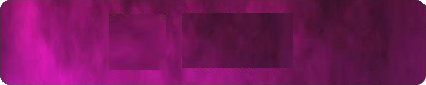
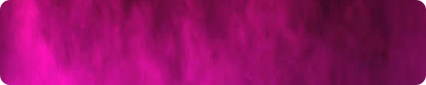
Добавлены картинки из макета. Добавлено меню. Добавлен блок "Контакты". Блок голосования генерится и переключается через JS.

diff --git a/static/scss/darkfair.scss b/static/scss/darkfair.scss
@@ -5,7 +5,7 @@
     src: url(/fonts/Cabana-Regular.otf);
 }
 
-body, html {
+body, html, .main-cnt {
     height: 100%;
 }
 
@@ -13,6 +13,10 @@ html {
     font-family: cabana;
     font-size: 30px;
     color: #F1E6D2;
+}
+
+.main-cnt {
+    overflow-y: scroll;
 }
 
 h1 {
@@ -26,6 +30,8 @@ h1 {
     padding: 5em 0;
     background: black;
     overflow: auto;
+    background-image: url("/images/darkfair/black_background.png");
+    background-size: contain;
 }
 
 .main-btn {
@@ -36,17 +42,72 @@ h1 {
     margin-top: 0.388888em;
     padding: 0.15em;
     border-radius: 8px;
-    background: #591441;
+    background-image: url("/images/darkfair/mainbutton.png");
     text-align: center;
     cursor: pointer;
 }
 
 .text-block {
     text-align: center;
+    width: 31.25%;
+    min-width: 600px;
+    margin: 0 auto;
+    line-height: 1.5em;
+}
+
+.menu-cnt {
+    position: fixed;
+    top: 60px;
+    left: 60px;
+    overflow: visible;
+    padding: 5px;
+
+    * {
+        cursor: pointer;
+    }
+
+    b {
+        font-size: 1.5em;
+    }
+
+    img {
+        vertical-align: middle;
+        margin: 14px 36px 14px 0;
+        float: left;
+
+        &.close {
+            display: none;
+        }
+    }
+
+    &.opened {
+        img.open {
+            display: none;
+        }
+        img.close {
+            display: initial;
+        }
+
+        .menu-text-cnt .menu-list {
+            display: initial;
+        }
+    }
+
+    .menu-text-cnt {
+        float: left;
+
+        .menu-list {
+            display: none;
+            color: white;
+
+            li {
+                padding: 10px 0;
+            }
+        }
+    }
 }
 
 .description-block {
-    background: black;
     text-align: center;
 
     .text-block {
@@ -81,15 +142,21 @@ html.mobile {
     overflow: hidden;
     text-align: center;
     .card {
-        font-size: 1.5em;
+        font-size: 2em;
         font-weight: bold;
         display: inline-block;
-        margin-right: 0.822222em;
-        border: 3px solid #FFFCEA;
-        border-radius: 5px;
-        padding: 0.222222em;
-        cursor: pointer;
+        height: 88px;
+        width: 49px;
+        margin-right: 0.6em;
+        text-align: center;
+        line-height: 80px;
+        background: url("/images/darkfair/fool.png") no-repeat;
+        background-size: cover;
 
+        &.disabled {
+            color: transparent;
+            background: url("/images/darkfair/fool_dark.png") no-repeat;
+        }
         &:last-child {
             margin: 0;
         }
@@ -97,36 +164,53 @@ html.mobile {
 }
 
 .answer-list {
+    width: 31.25%;
+    min-width: 600px;
+    margin: 0 auto;
+    margin-top: 2em;
+
     input {
-        visibility: hidden;
+        display: none;
 
         &:checked + .check .inside {
             visibility: visible;
         }
     }
 
-    .check {
-        height: 18px;
-        width: 18px;
-        border-radius: 18px;
-        border: 4px solid #EDEFCB;
-        display: inline-block;
-        cursor: pointer;
-        line-height: 18px;
+    li {
+        div.check {
+            height: 18px;
+            width: 18px;
+            border-radius: 18px;
+            border: 4px solid #EDEFCB;
+            display: inline-block;
+            cursor: pointer;
+            line-height: 18px;
+            margin: 3px 25px 0 0;
+            float: left;
 
-        &:hover {
-            border-color: #FAEDDC;
+            &:hover {
+                border-color: #FAEDDC;
+            }
+
+            .inside {
+                visibility: hidden;
+                display: inline-block;
+                height: 8px;
+                width: 8px;
+                margin: 0 0 7px 4px;
+                background: #EDEFCB;
+                border-radius: 8px;
+                border: 1px solid #EDEFCB;
+            }
         }
 
-        .inside {
-            visibility: hidden;
-            display: inline-block;
-            height: 8px;
-            width: 8px;
-            margin: 0 0 7px 4px;
-            background: #EDEFCB;
-            border-radius: 8px;
-            border: 1px solid #EDEFCB;
+        label {
+            display: block;
+            float: left;
+            width: calc(100% - 65px);
+            margin-bottom: 1em;
+            cursor: pointer;
         }
     }
 }

diff --git a/static/js/darkfair.js b/static/js/darkfair.js
@@ -1,1 +1,82 @@
+import utils from './common/utils.js';
 import './../scss/darkfair.scss';
+
+var darkfairModule = new function() {
+    const answerTpl =
+            '<li>' +
+                '<input id="{0}" type="radio" name="polling" value="{1}">' +
+                '<div class="check">' +
+                    '<div class="inside"></div>' +
+                '</div>' +
+                '<label for="{0}">{2}</label>' +
+            '</li>';
+    var me = this;
+
+    function renderQuestions() {
+        utils.gBID('QuestionList').innerHTML = window.questionListData.map((q, i) => {
+            return utils.stringFormat('<li class="card disabled">{0}</li>', i + 1);
+        }).join('');
+    };
+    
+    function getLocalStorageData(propName) {
+        return JSON.parse(localStorage.getItem(propName));
+    };
+
+    function setLocalStorageData(propName, val) {
+        localStorage.setItem(propName, JSON.stringify(val));
+    };
+
+    function getAnswers() {
+        return getLocalStorageData('answers') || [];
+    };
+
+    function setActiveQuestion(index) {
+        var question = window.questionListData[index];
+        for(var i = 0; i <= index; i++) {
+            var list = utils.gBID('QuestionList');
+            utils.removeClassFromElement(list.children[i], 'disabled');
+        }
+        utils.gBID('QuestionTextCnt').innerHTML = question.text;
+        utils.gBID('QuestionAnswerList').innerHTML = question.answers.map((a, i) => {
+            return utils.stringFormat(answerTpl, 'option' + i, i, a)
+        }).join('');
+        addListenersToAnswerRadiobuttons(onAnswerRadiobuttonClick);
+    };
+
+    function ensureActiveQuestion() {
+        setActiveQuestion(getAnswers().length);
+    }
+
+    function addListenersToAnswerRadiobuttons(fn) {
+        utils.gBID('QuestionAnswerList').querySelectorAll('input').forEach((b) => {
+            b.addEventListener('click', fn)
+        });
+    };
+
+    function onAnswerRadiobuttonClick(e) {
+        var val = arguments[0].target.value,
+            answers = getAnswers();
+        answers.push(val);
+        setLocalStorageData('answers', answers);
+        ensureActiveQuestion();
+    };
+    
+    function onMenuCntClick(e) {
+        if(['IMG', 'B'].indexOf(e.target.tagName) > -1) {
+            var isOpened = this.className.indexOf('opened') > -1;
+            utils[isOpened ? 'removeClassFromElement' : 'addClassToElement'](this, 'opened');
+        }
+        if(e.target.dataset.blockName) {
+            var block = utils.gBID(utils.capitalizeString(e.target.dataset.blockName) + 'Block');
+            utils.gBID('MainContainer').scrollTop += block.getBoundingClientRect().top;
+        }
+    };
+
+    me.init = function() {
+        renderQuestions();
+        ensureActiveQuestion();
+        utils.gBID('MenuContainer').addEventListener('click', onMenuCntClick);
+    };
+};
+
+darkfairModule.init();

diff --git a/static/js/common/utils.js b/static/js/common/utils.js
@@ -24,9 +24,13 @@ function removeClassFromElement(el, className) {
 
 function stringFormat(tpl) {
     for(var i = 1; i < arguments.length; i++) {
-        tpl = tpl.replace('{' + (i - 1) + '}', arguments[i]);
+        tpl = tpl.replace(new RegExp('\\{' + (i - 1) + '\\}', 'g'), arguments[i]);
     }
     return tpl;
+};
+
+function capitalizeString(str) {
+    return str[0].toUpperCase() + str.substring(1);
 };
 
 function createElementFromHTML(htmlString) {
@@ -41,5 +45,6 @@ module.exports = {
     addClassToElement: addClassToElement,
     removeClassFromElement: removeClassFromElement,
     stringFormat: stringFormat,
+    capitalizeString: capitalizeString,
     createElementFromHTML: createElementFromHTML
 };
